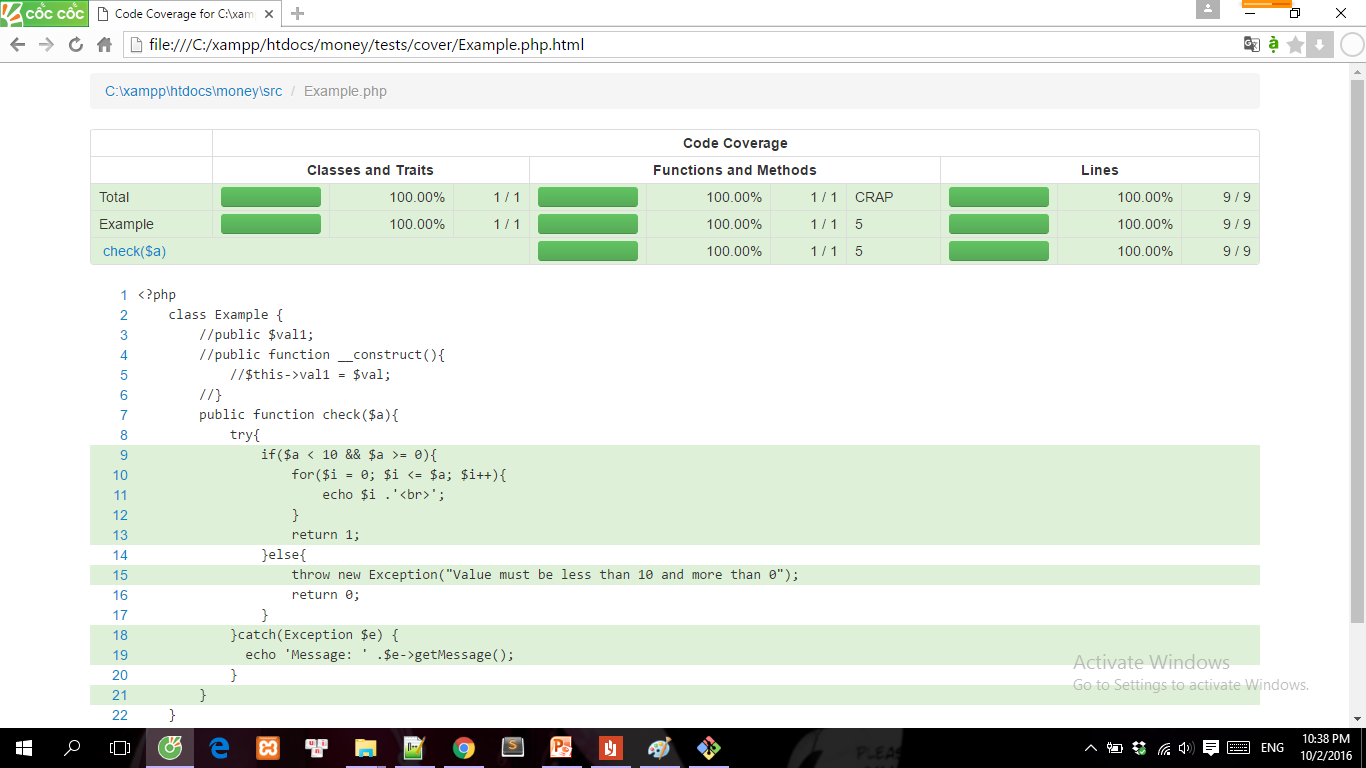
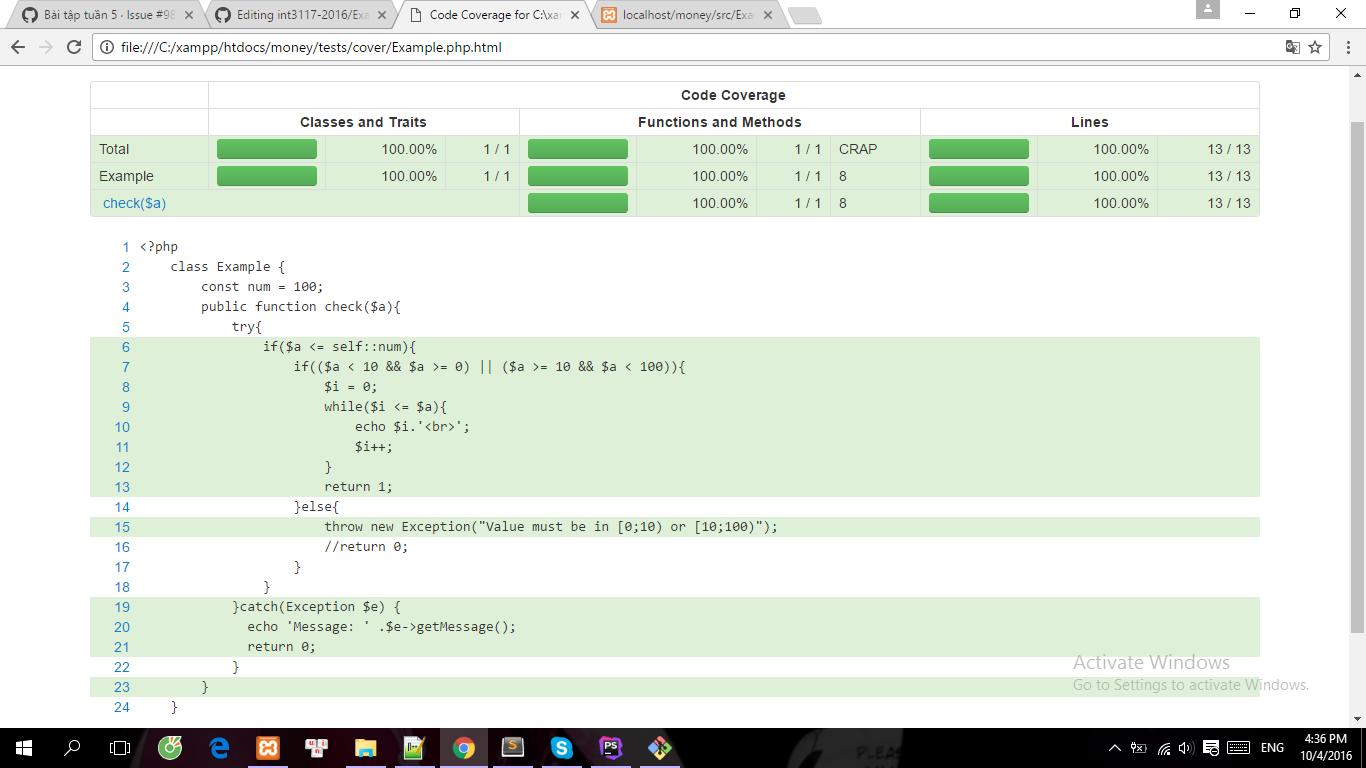
Update BT2

diff --git a/PhungKhacKhanh/BT1/src/Example.php b/PhungKhacKhanh/BT1/src/Example.php
@@ -1,18 +1,23 @@
 <?php
 	class Example {
+		const num = 100;
 		public function check($a){
 			try{
-				if($a < 10 && $a >= 0){
-					for($i = 0; $i <= $a; $i++){
-						echo $i .'<br>';
-					}
-					return 1;
-				}else{
-					throw new Exception("Value must be less than 10 and more than 0");
-					return 0;
-				} 
+				if($a <= self::num){
+					if(($a < 10 && $a >= 0) || ($a >= 10 && $a < 100)){
+						$i = 0;
+						while($i <= $a){
+							echo $i.'<br>';
+							$i++;
+						}
+						return 1;
+					}else{
+						throw new Exception("Value must be in [0;10) or [10;100)");
+					} 
+				}
 			}catch(Exception $e) {
 			  echo 'Message: ' .$e->getMessage();
+			  return 0;
 			}
 		}
 	}

diff --git a/PhungKhacKhanh/BT1/tests/ExampleTest.php b/PhungKhacKhanh/BT1/tests/ExampleTest.php
@@ -17,7 +17,7 @@ class ExampleTest extends PHPUnit_Framework_TestCase
 	public function testCheck10(){
 		$valTest = new Example();
 		$val = $valTest->check(10);
-        $this->assertEquals(0, $val);
+        $this->assertEquals(1, $val);
 	}
 	/**
      * @covers Example::check
@@ -26,6 +26,14 @@ class ExampleTest extends PHPUnit_Framework_TestCase
 		$valTest = new Example();
 		$val = $valTest->check(-1);
         $this->assertEquals(0, $val);
+	}
+	/**
+     * @covers Example::check
+     */
+	public function testCheck99(){
+		$valTest = new Example();
+		$val = $valTest->check(99);
+        $this->assertEquals(1, $val);
 	}
 	/**
      * @covers Example::check

diff --git a/PhungKhacKhanh/BT2/README.md b/PhungKhacKhanh/BT2/README.md
@@ -4,6 +4,6 @@ Lớp: K58-CB
 
 
 Bài toán kiểm tra số nhập vào có lớn hơn 0 hoặc nhỏ hơn 10 không.
-Nếu đúng thì in ra dãy từ 0 tới số đó, không thì in ra lỗi "Value must be less than 10 and more than 0".
+Nếu đúng thì in ra dãy từ 0 tới số đó, không thì in ra lỗi "Value must be in [0;10) or [10;100)".
 
 Bài toán dùng phương pháp kiểm thử biên, "Line coverage total" là 90%, "Coverage function and method" là 50%, "Classes and Traits" là 0%
